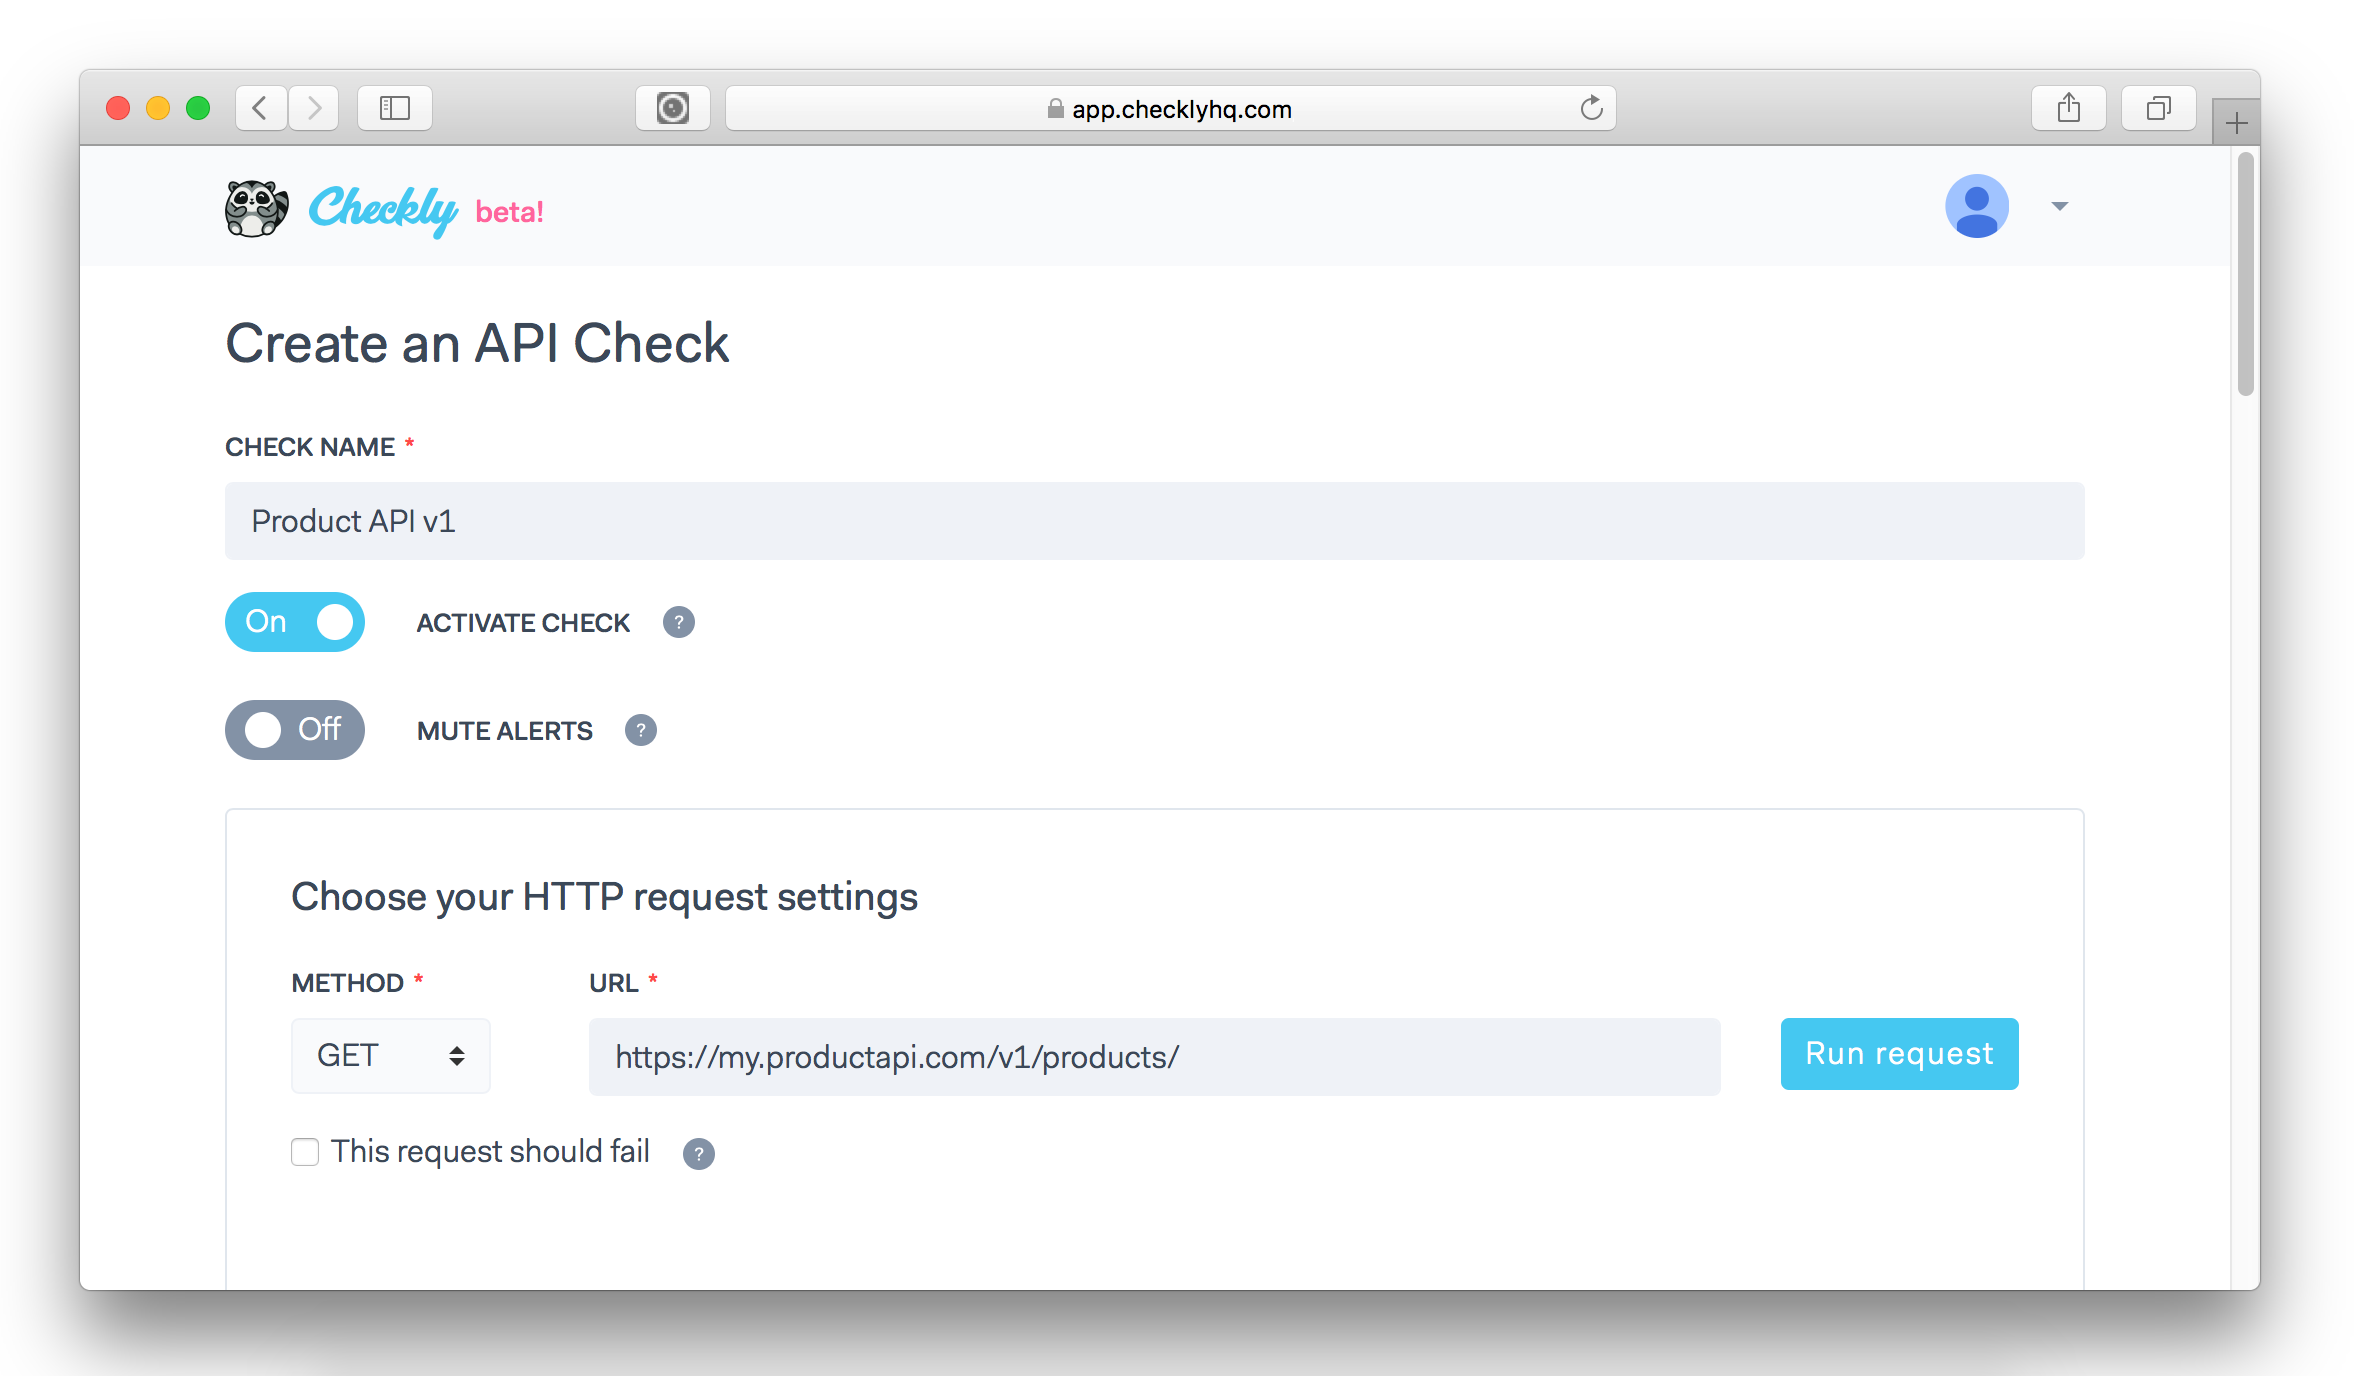
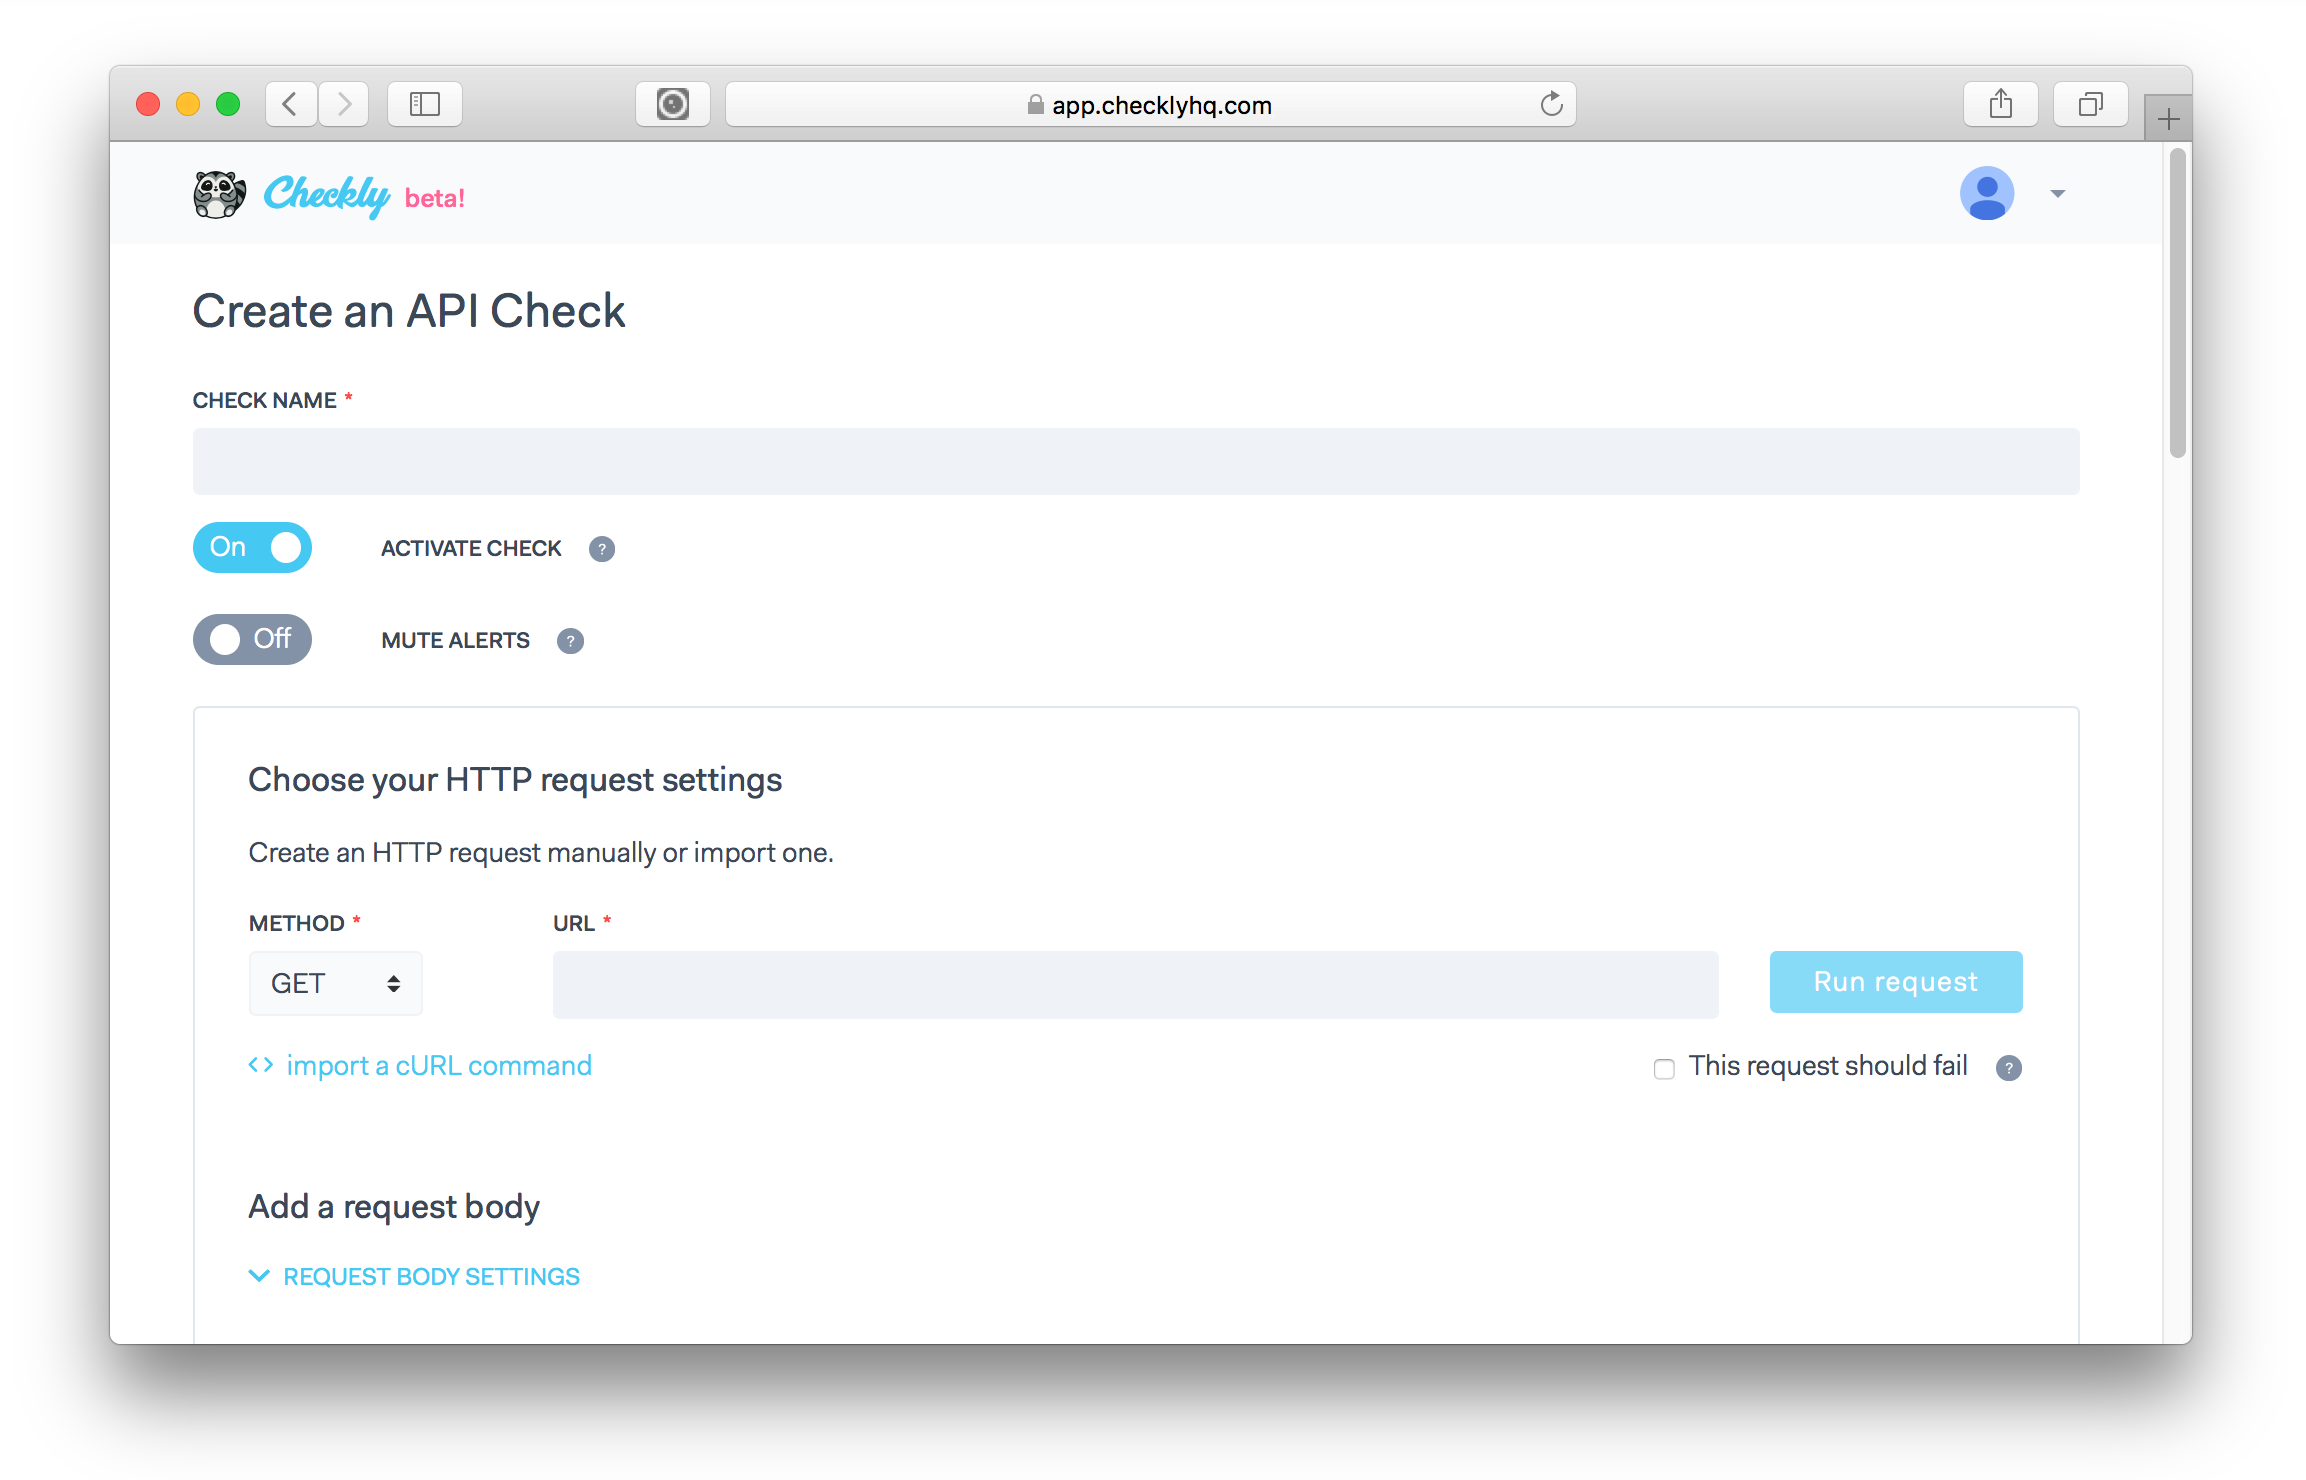
updates

diff --git a/site/content/docs/api-checks/request-settings.md b/site/content/docs/api-checks/request-settings.md
@@ -9,7 +9,7 @@ menu:
 A full HTTP request is created by filling out the various parts of the HTTP request settings screen. Not all sections and fields
 are mandatory, only a name and URL are required to get going.
 
-While building up your API check, you can run the request and its assertions using the **Run request** button. This will run the 
+While building up your API check, you can run the request and its assertions using the **Run request** button. This will run the
 API checks on the production infrastructure and help you debug any issues.
 
 ## Method & URL
@@ -27,7 +27,7 @@ in handy when testing 404 pages or 500 error handling.
 
 ## Body
 
-Add body content to your request by formatting your content as text. Selecting the type of content will automatically set the correct `Content-Type` header for your request. 
+Add body content to your request by formatting your content as text. Selecting the type of content will automatically set the correct `Content-Type` header for your request.
 
 ### JSON
 
@@ -76,6 +76,11 @@ To add [HTTP basic authentication parameters](https://developer.mozilla.org/en-U
 request, use the username and password fields in the relevant section.
 
 ![](/docs/images/api-checks/basic-auth.png)
+
+## Import a curl request
+
+You can import the request method, url, headers and body from a [curl](https://curl.haxx.se/) command.
+Arguments `--user-agent`, `--cookie` and `--compressed` also work.
 
 
 

diff --git a/site/content/whats-new/introducing-weekly-summary.md b/site/content/whats-new/introducing-weekly-summary.md
@@ -1,0 +1,14 @@
+---
+title: Introducing the weekly summary email
+date: 2018-05-15
+author: Tim Nolet
+---
+
+Keeping an eye on the historical performance of your API's and app's important transactions just became a little bit easier.
+As of today Checkly will send you a seven day performance summary of all your checks.
+
+![](/whats-new/weekly_summary.png)
+
+Don't care for the weekly update? You can toggle your email preferences in the [account section](https://app.checklyhq.com/account/emails)
+
+<!--more-->
